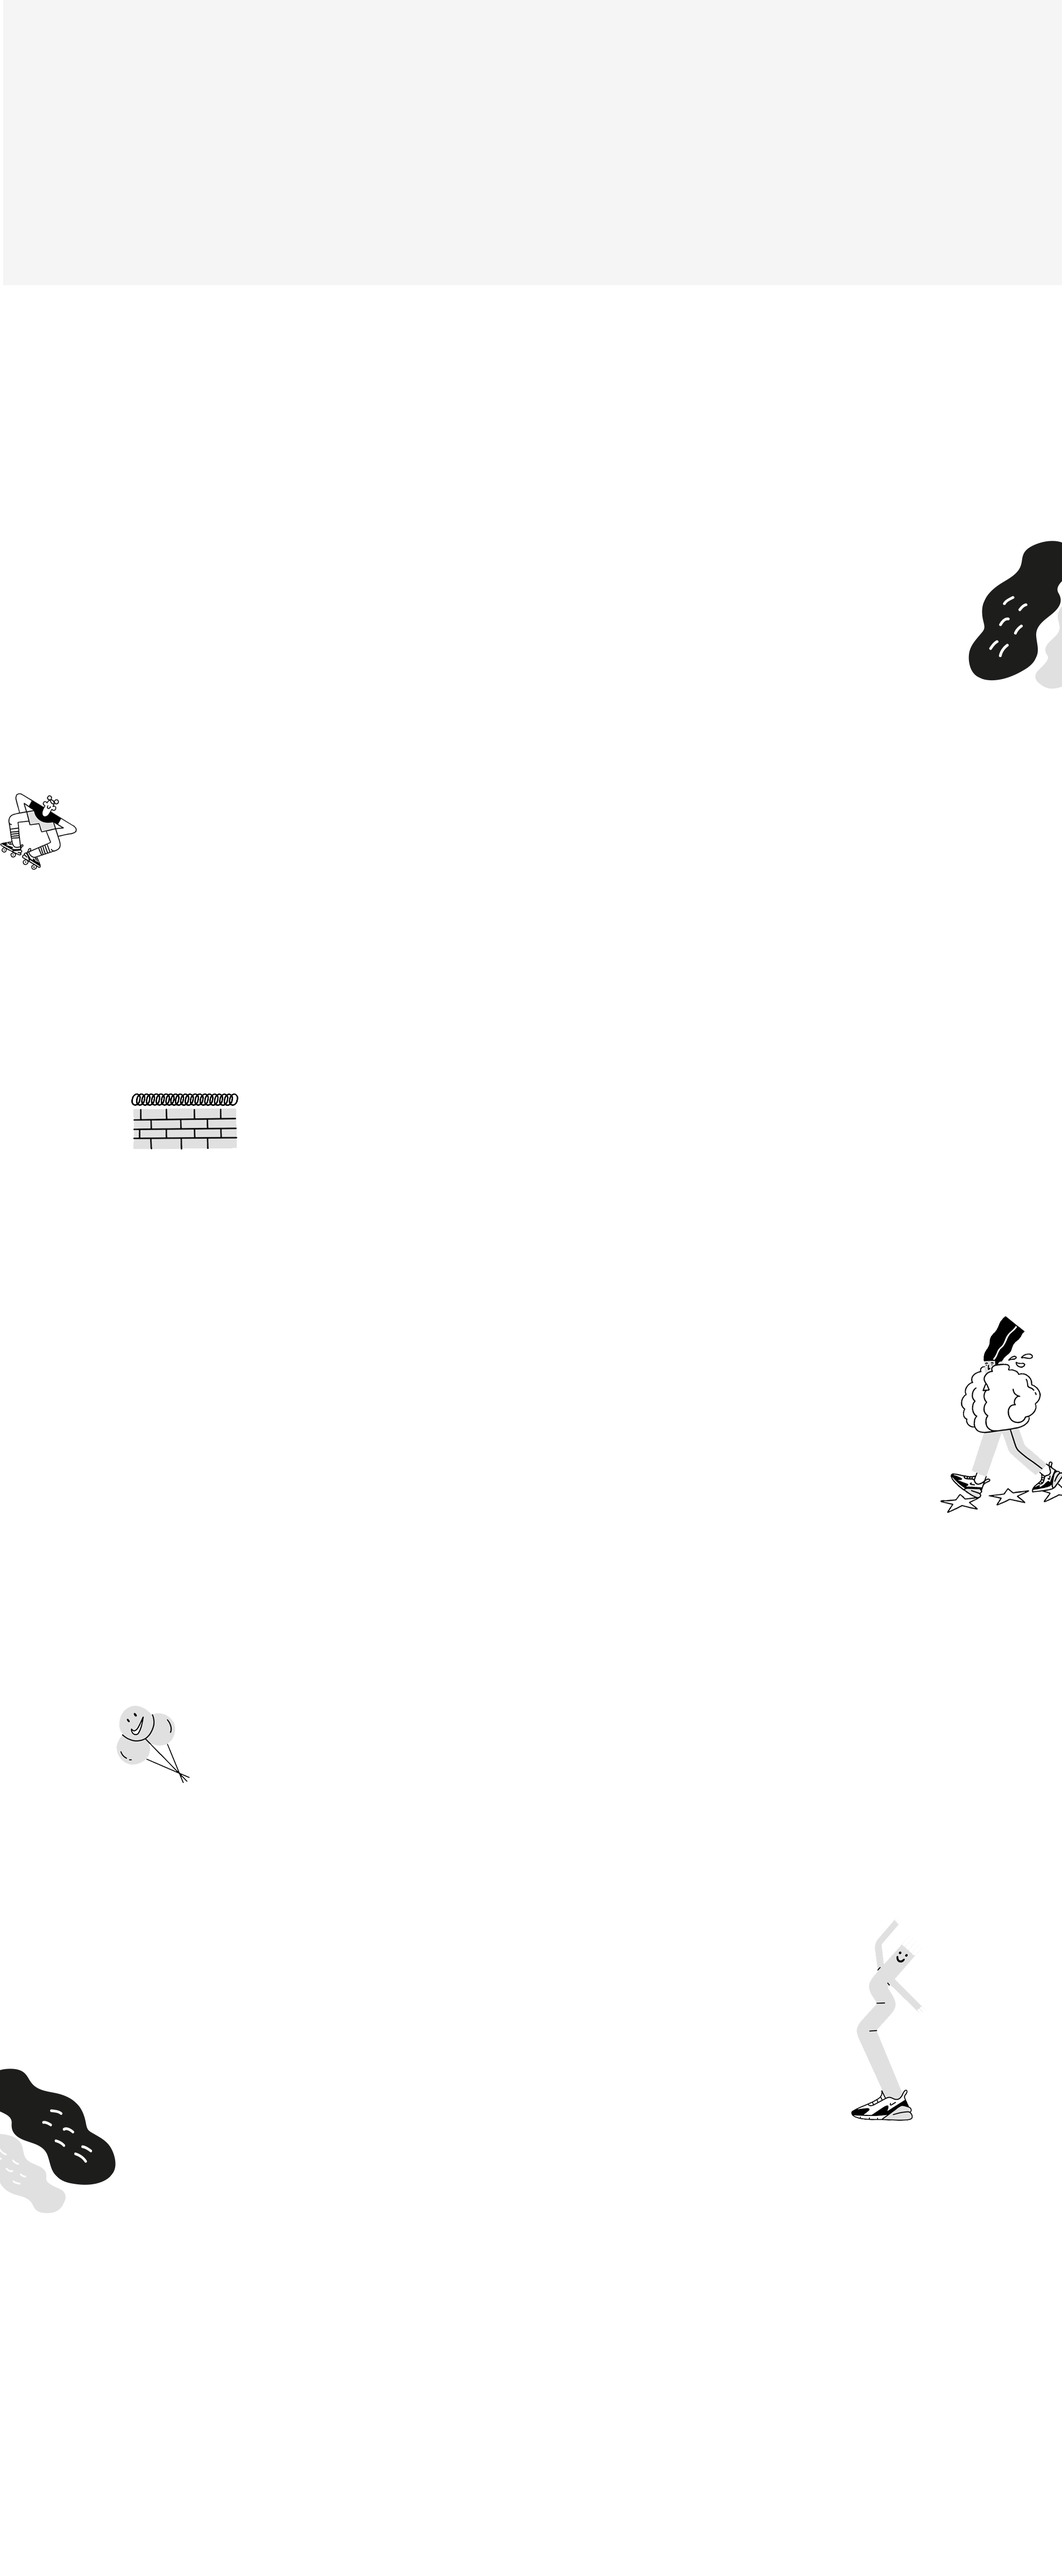
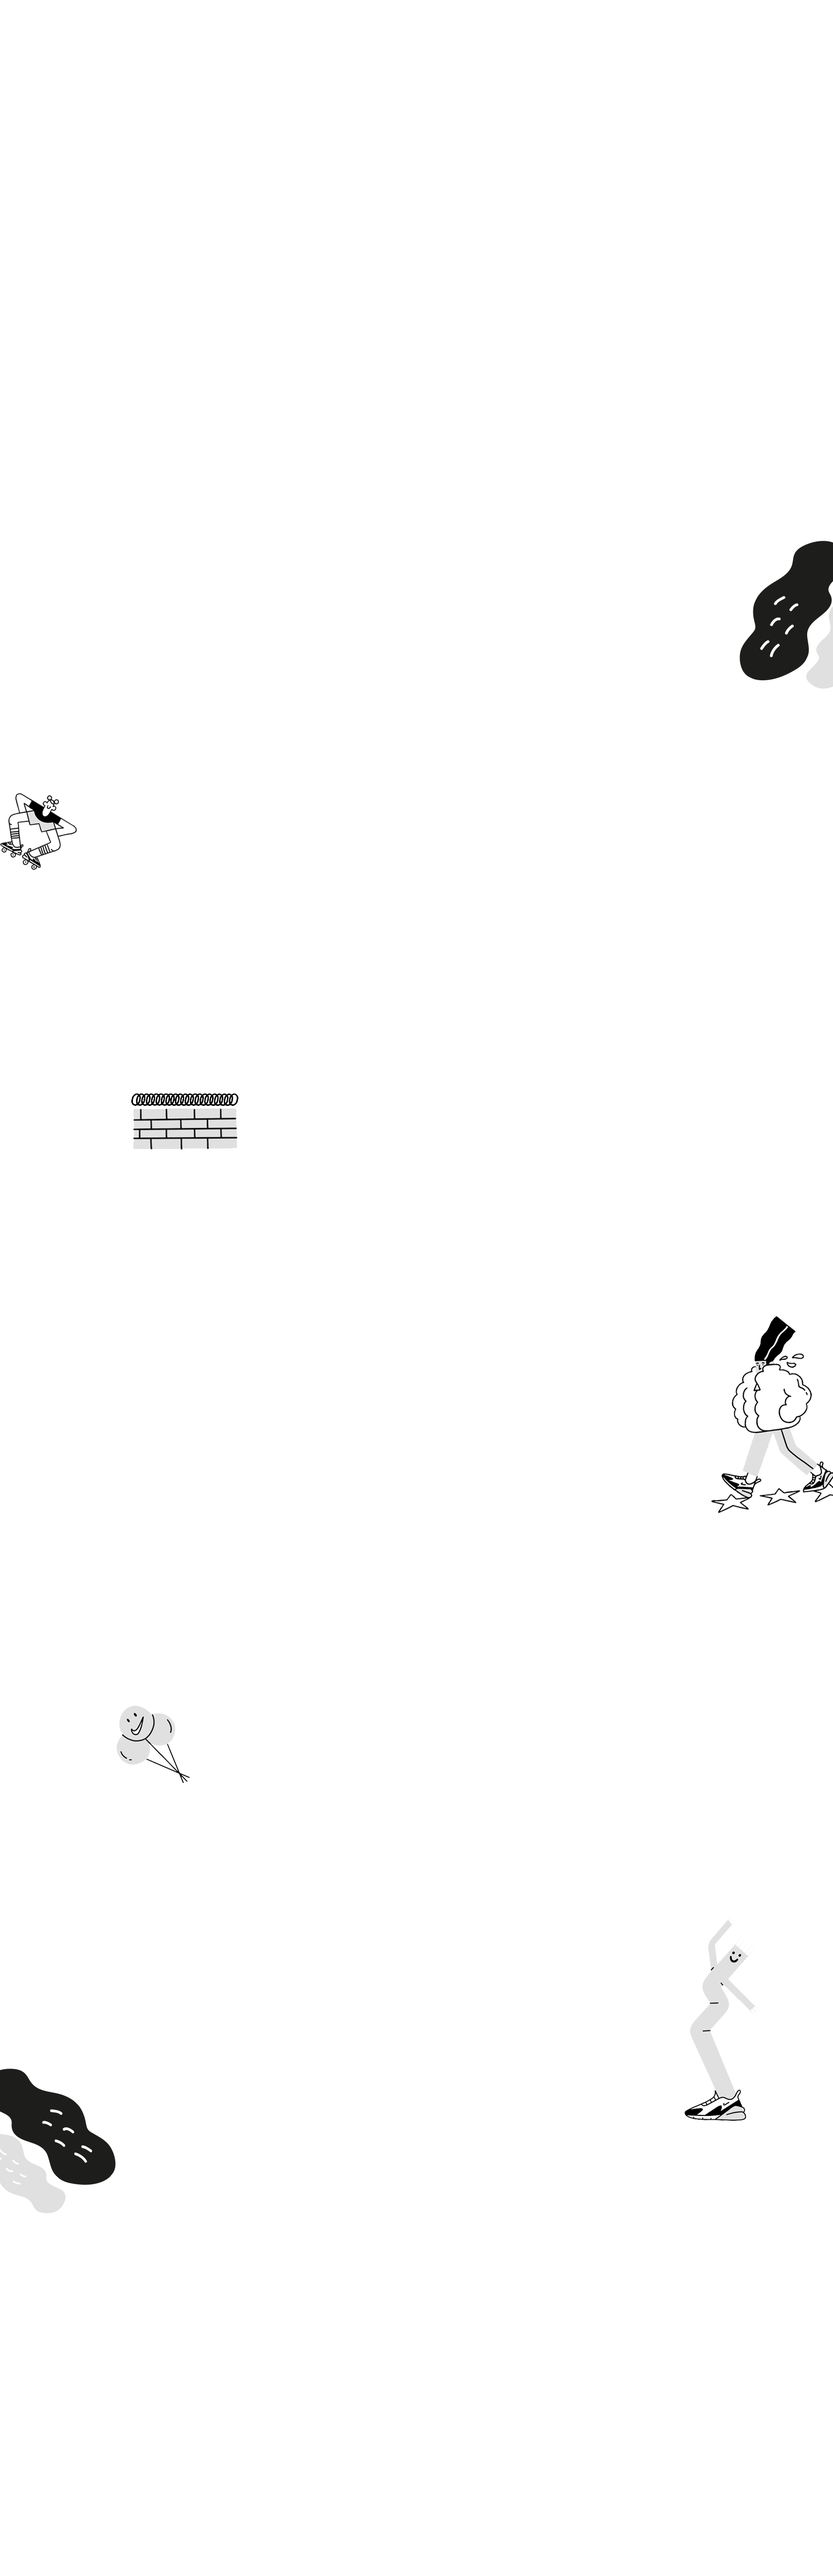
nike

diff --git a/css/main.css b/css/main.css
@@ -1,8 +1,9 @@
 body{margin:0; padding:0; }
             ul,li,ol {list-style:none; margin:0; padding:0;}
             nav a{text-decoration: none; color:black;}
-            body{background-image:url("../img/");}
-            
+            body{background-image:url("../img/background3.png");
+            background-repeat: no-repeat;
+            background-position: center;}
 
 
 
@@ -94,17 +95,21 @@ body{margin:0; padding:0; }
         .shoe h1{text-align:center; font-size:30px;}
 
         #shoes p{color:#858585;}
-        #shoes{width:1350px; height:2000px; margin:0 auto; background-color:}
-        #shoes1{width:100%; height:500px; margin:0 auto; background-color: }
-        .shoes1{float:left; margin:20px; text-align: center;}
+        #shoes{width:100%; height:2000px; margin:0 auto; background-color:}
+        
+        #shoes1{width:1050px; height:500px; margin:0 auto; background-color:}
+        .shoes1{width:350px; height:500px; float:left; text-align: center; background-color: }
+        .shoes1 img{width:350px; height:350px;}
         
 
-        #shoes2{width:100%; height:500px; margin:0 auto; position:relative; top:30px; background-color:}
-        .shoes2{float:left; margin:20px; text-align: center;}
+        #shoes2{width:1050px; height:500px; margin:0 auto; position:relative; top:30px; background-color:}
+        .shoes2{width:350px; height:500px; float:left; text-align: center; background-color:}
+        .shoes2 img{width:350px; height:350px;}
 
-        #shoes3{width:100%; height:500px; margin:0 auto; position:relative; top:60px; background-color:}
-        .shoes3{float:left; margin:20px; text-align: center;}
-        
+        #shoes3{width:1050px; height:500px; margin:0 auto; position:relative; top:60px; background-color:}
+        .shoes3{width:350px; height:500px; float:left; text-align: center; background-color: }
+        .shoes3 img{width:350px; height:350px;}
+
         .shoes1:hover{transform: scale(1.1); transition: all 0.3s ease-in-out;}
         .shoes2:hover{transform: scale(1.1); transition: all 0.3s ease-in-out;}
         .shoes3:hover{transform: scale(1.1); transition: all 0.3s ease-in-out;}
